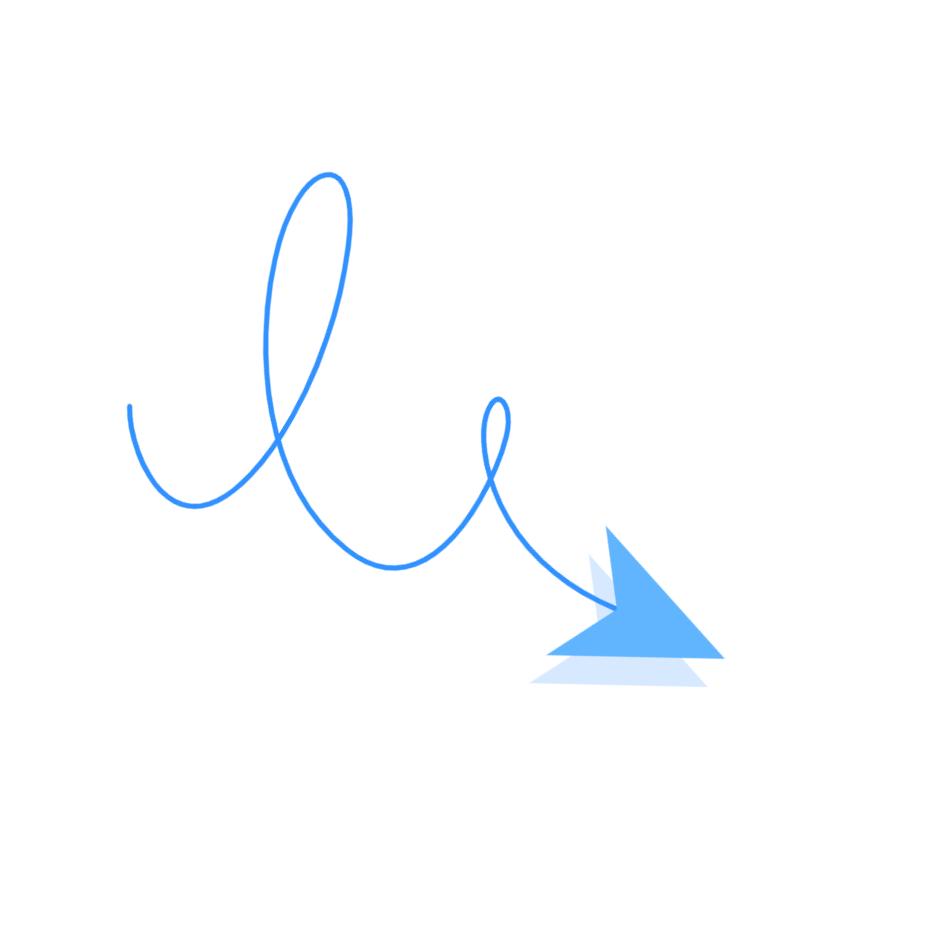
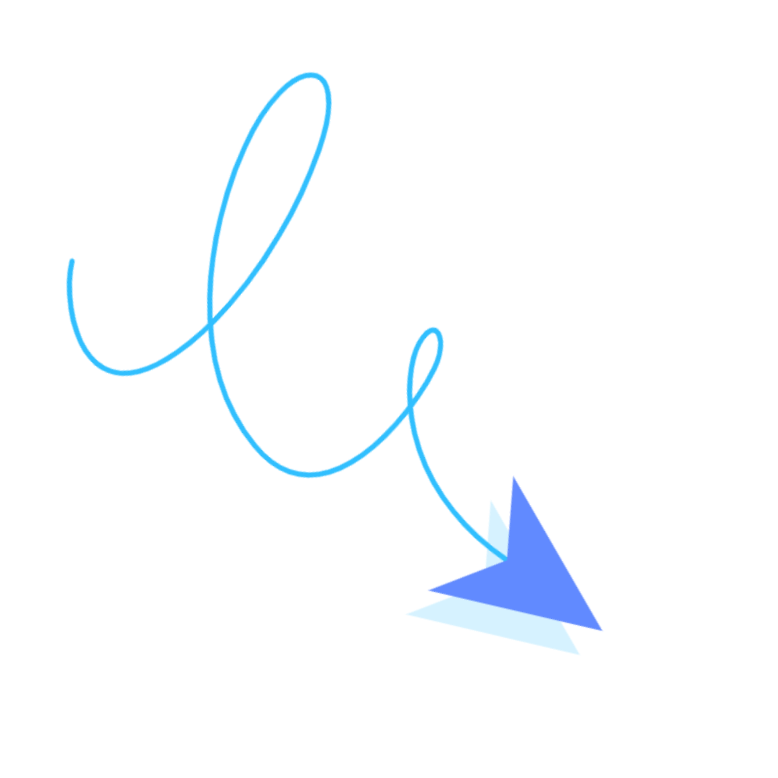
some fix

Changed region(s): [[0.2159, 0.0925, 0.7712, 0.8638], [0.0925, 0.401, 0.2468, 0.5553], [0.0617, 0.3393, 0.0925, 0.401]]

diff --git a/modules/Dashboard/components/piechart.tsx b/modules/Dashboard/components/piechart.tsx
@@ -11,8 +11,9 @@ import {
 import { connect, useSelector } from 'react-redux';
 import { RootState } from 'redux/store';
 import { MyObject, selectMyObject } from 'redux/slices/dailyInputSlice';
-import ArrowPic from "../../../images/arrow.png"
+import ArrowPic from "../../../images/arrow2.png"
 import Image from 'next/image';
+import { motion } from 'framer-motion';
 
 
 const InputPiechart = () => {
@@ -32,25 +33,33 @@ const InputPiechart = () => {
   return (
     <Flex>
       {myObject.food === 0 ? (
-        <Flex
-         w={["17rem", "40rem", "18rem", "18rem"]}
-         flexDir="column"
-         justifyContent="center"
-         alignItems="center"
-         mb={["-2.6rem","-2.6rem","-3.7rem","-4.5rem"]}
+        <motion.div
+          initial={{ opacity: 0 }} 
+          animate={{ opacity: 1 }}
+          transition={{duration: 2}}
         >
-            <Heading
-              mt="2.3rem"
-              size={["xs","xs","sm","md"]}
-              color="white"
-            >
-              What did you spend on today?
-            </Heading>
-          <Image
-            src={ArrowPic}
-            alt=""
-            />
-        </Flex>
+          <Flex
+          w={["15rem", "15rem", "18rem", "18rem"]}
+          flexDir="column"
+          justifyContent="center"
+          alignItems="center"
+          mb={["-1.9rem","-1.9rem","-3.7rem","-4.5rem"]}
+          >
+                <Heading
+                  mt={["1.7rem","1.7rem","2.3rem","2.3rem"]}
+                  size={["xs","xs","sm","md"]}
+                  color="white"
+                >
+                  What did you spend on today?
+                </Heading>
+                <Image
+                  src={ArrowPic}
+                  alt=""
+                  placeholder="blur"
+                  priority
+                  />
+          </Flex>
+        </motion.div>
       ) : (
       <PieChart 
           width={250} 
@@ -100,11 +109,4 @@ const InputPiechart = () => {
   )
 }
 
-const mapStateToProps = (state: RootState) => {
-    return {
-      data: state.dailyInput.myObject,
-    };
-  };
 export default InputPiechart
-// export default connect(mapStateToProps)(InputPiechart);
-  

diff --git a/modules/Dashboard/components/input-modal.tsx b/modules/Dashboard/components/input-modal.tsx
@@ -202,7 +202,7 @@ const InputModal = () => {
     setIsFormComplete(true);
     toast({
         position: 'bottom',
-        
+        duration: 3000,
         render: () =>(
             <Flex
                 justifyContent="center"
